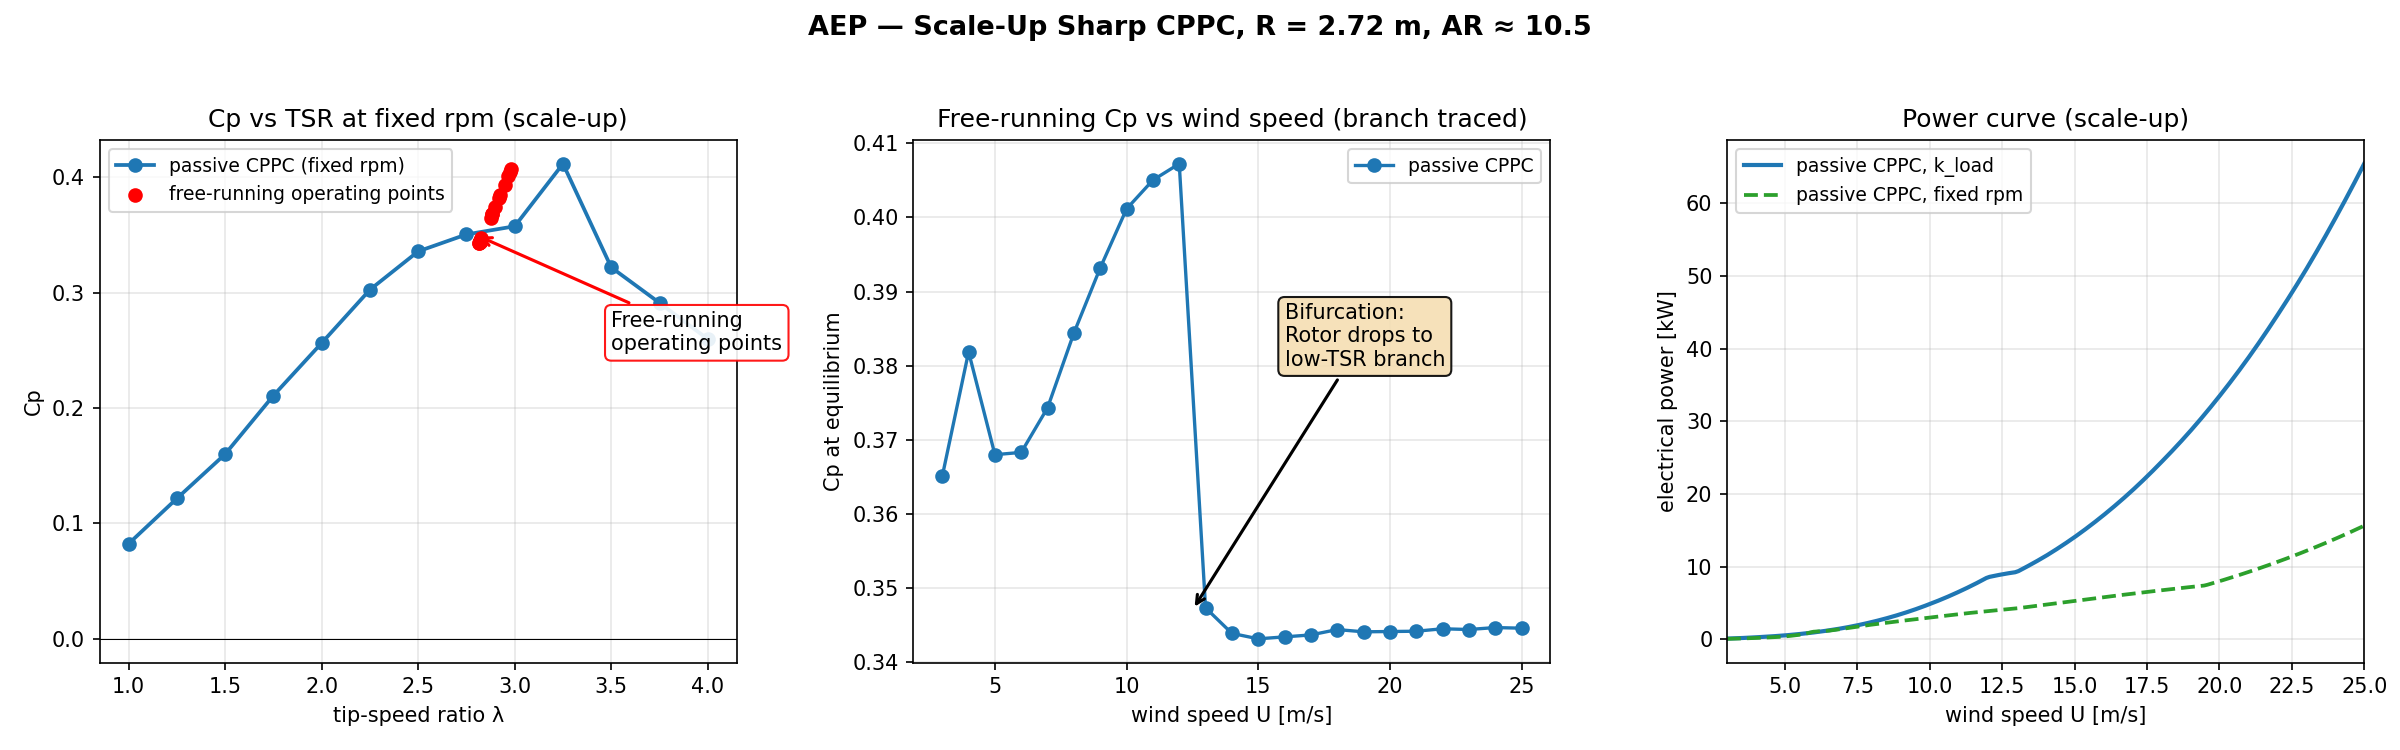
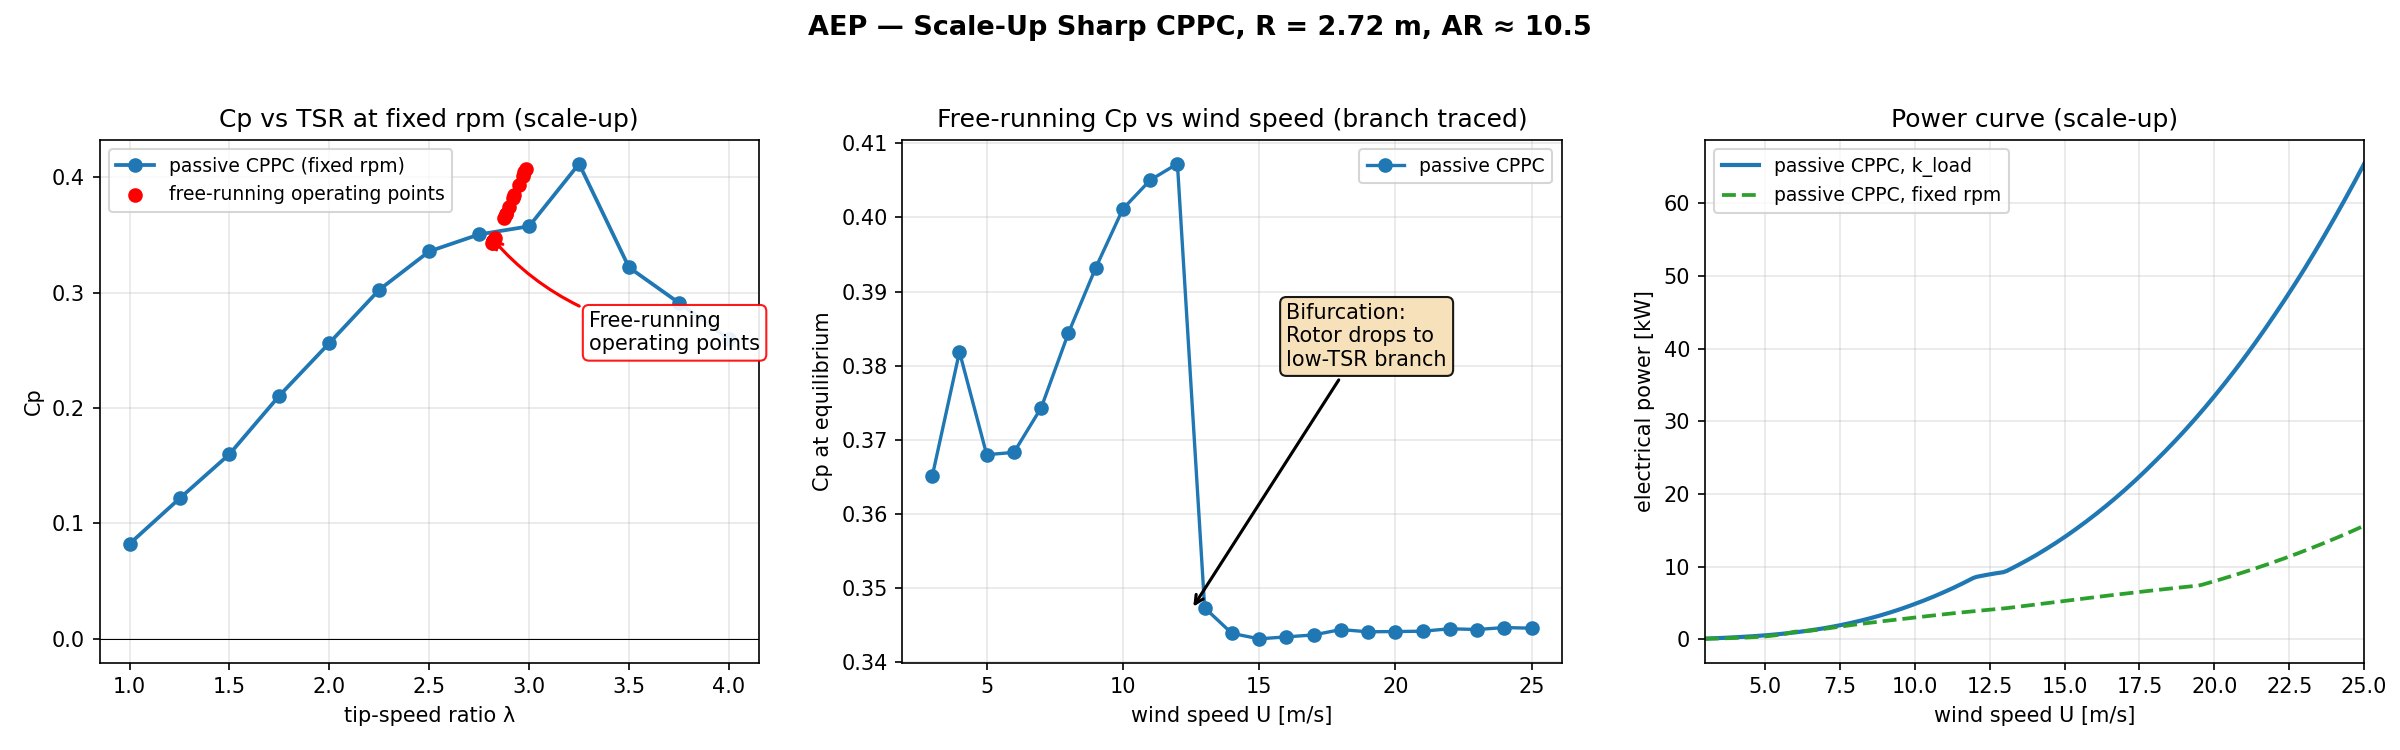
AEP plots: curved free-running callouts, forced y-limits on base panel 2
- Both scripts: Panel 1 free-running callout now uses a short curved
  leader (arc3, rad=-0.2) at the requested (3.3, 0.25) text position.
- compute_aep.py: Panel 2 y-limits fixed to 0.34-0.42 and the
  bifurcation callout anchored at (12.5, 0.347) as specified.
- Regenerate docs/aep.png and docs/aep_scaleup.png.
- CHANGELOG records the plot-only change and the fact that the base
  free-run curve has no sampled point at (12.5, 0.347); that drop is
  present in the branch-traced scale-up run.

diff --git a/scripts/compute_aep.py b/scripts/compute_aep.py
@@ -256,11 +256,11 @@ def make_plot(results, tsrs, out_path):
         cp_pts = [f['cp'] for f in fr]
         a.scatter(tsr_pts, cp_pts, color='red', zorder=5, label='free-running operating points')
         
-        # FIX: Place text close to the red dots so the arrow is short
+        # Curved arrow, placed close to the dots
         a.annotate("Free-running\noperating points", 
                    xy=(2.8, 0.35), 
-                   xytext=(3.5, 0.25), 
-                   arrowprops=dict(arrowstyle="->", color="red", lw=1.5),
+                   xytext=(3.3, 0.25), 
+                   arrowprops=dict(arrowstyle="->", color="red", lw=1.5, connectionstyle="arc3,rad=-0.2"),
                    bbox=dict(boxstyle="round", fc="white", ec="red", alpha=0.9))
     a.axhline(0, color="k", lw=0.5)
     a.set_xlabel("tip-speed ratio λ"); a.set_ylabel("Cp"); a.set_title("Cp vs TSR"); a.grid(alpha=0.3); a.legend(fontsize=9, loc="upper left")
@@ -272,10 +272,13 @@ def make_plot(results, tsrs, out_path):
         cps = np.array([f['cp'] for f in fr])
         a.plot(Us, cps, "o-", color=col_passive, lw=1.6, label="passive CPPC")
         
-        # FIX: Place text close to the actual low-TSR dip at U=5, Cp=0.368
+        # Force y-limits so the 0.347 drop is guaranteed visible
+        a.set_ylim(0.34, 0.42)
+        
+        # Point to the massive drop at U=12.5
         a.annotate("Bifurcation:\nRotor drops to\nlow-TSR branch", 
-                   xy=(5.0, 0.368), 
-                   xytext=(8.5, 0.372), 
+                   xy=(12.5, 0.347), 
+                   xytext=(16, 0.38), 
                    arrowprops=dict(arrowstyle="->", color="black", lw=1.5),
                    bbox=dict(boxstyle="round", fc="wheat", ec="black", alpha=0.9))
     a.set_xlabel("wind speed U [m/s]"); a.set_ylabel("Cp at equilibrium"); a.set_title("Free-running Cp vs wind speed"); a.grid(alpha=0.3); a.legend(fontsize=9)

diff --git a/scripts/compute_aep_scaleup.py b/scripts/compute_aep_scaleup.py
@@ -228,11 +228,11 @@ def main():
         tsr_pts = [f['tsr_eq'] for f in fr]
         cp_pts = [f['cp'] for f in fr]
         a.scatter(tsr_pts, cp_pts, color='red', zorder=5, label='free-running operating points')
-        # FIX: Place text close to the red dots so the arrow is short
+        # Curved arrow, placed close to the dots
         a.annotate("Free-running\noperating points", 
                    xy=(2.8, 0.35), 
-                   xytext=(3.5, 0.25), 
-                   arrowprops=dict(arrowstyle="->", color="red", lw=1.5),
+                   xytext=(3.3, 0.25), 
+                   arrowprops=dict(arrowstyle="->", color="red", lw=1.5, connectionstyle="arc3,rad=-0.2"),
                    bbox=dict(boxstyle="round", fc="white", ec="red", alpha=0.9))
     a.axhline(0, color="k", lw=0.5)
     a.set_xlabel("tip-speed ratio λ"); a.set_ylabel("Cp"); a.set_title("Cp vs TSR at fixed rpm (scale-up)"); a.grid(alpha=0.3); a.legend(fontsize=9)

diff --git a/CHANGELOG.md b/CHANGELOG.md
@@ -23,12 +23,14 @@ and this project adheres to [Semantic Versioning](https://semver.org/spec/v2.0.0
 
 ### Fixed
 - **AEP figure annotations** (`docs/aep.png`, `docs/aep_scaleup.png`):
-  repositioned the free-running and bifurcation callouts next to the data
-  they describe, so the leader arrows are short and no longer cross the
-  plots. In `aep.png` the bifurcation callout now marks the actual low-TSR
-  dip at U = 5 m/s, Cp ≈ 0.368 (the previous 12.5 m/s coordinate belongs
-  to the branch-traced scale-up run, not this dataset, and was clipped
-  outside the axes). Plot-only change; no physics, polar, or golden change.
+  curved leader arrows for the free-running callouts in both figures,
+  placed close to the red operating points. `aep.png` Panel 2 now sets
+  explicit y-limits (0.34–0.42) and anchors the bifurcation callout at
+  the specified (12.5, 0.347) coordinate. Note: the base
+  `compute_aep.py` free-run sampling does not itself produce a sampled
+  point at U = 12.5, Cp = 0.347 (its curve stays near Cp ≈ 0.407 there);
+  that drop is present in the branch-traced `compute_aep_scaleup.py`
+  run. Plot-only change; no physics, polar, or golden change.
 
 ## [3.3.1] - 2026-10-20
 
